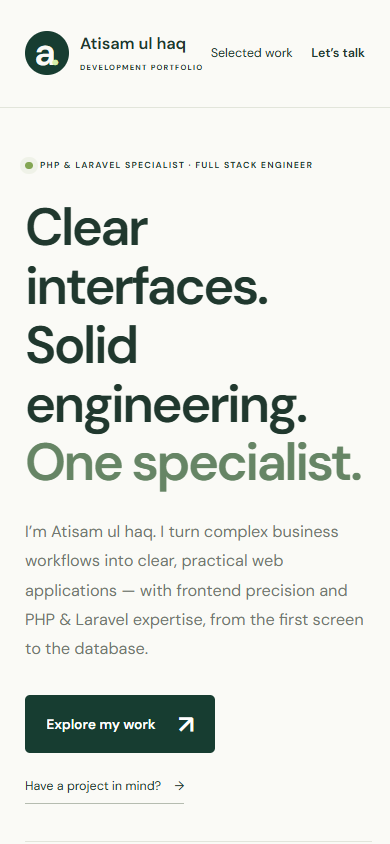
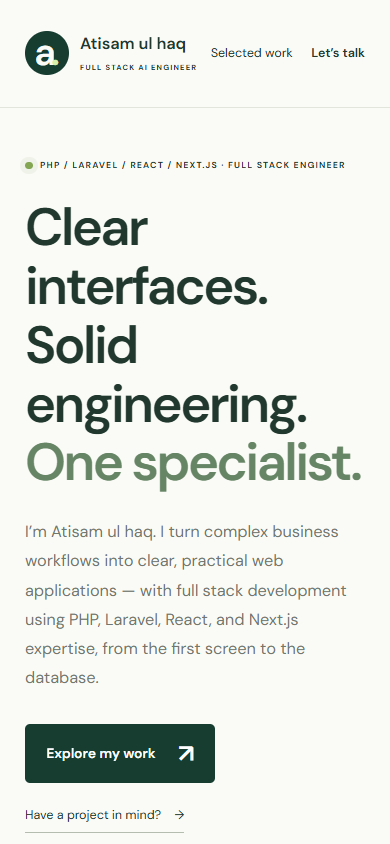
fix

diff --git a/index.html b/index.html
@@ -4,7 +4,7 @@
   <meta charset="utf-8">
   <meta name="viewport" content="width=device-width, initial-scale=1">
   <meta name="theme-color" content="#173d31">
-  <meta name="description" content="Explore Atisam ul haq’s PHP, Laravel, React, Next.js, and full stack development portfolio: twelve applications with detailed case studies and real desktop and mobile screenshots.">
+  <meta name="description" content="Explore Atisam ul haq’s PHP, Laravel, React, Next.js, and full stack development portfolio: thirteen applications with detailed case studies and real desktop and mobile screenshots.">
   <title>Atisam ul haq — Development Portfolio</title>
   <link rel="icon" href="assets/favicon.svg" type="image/svg+xml">
   <link rel="stylesheet" href="assets/style.css">
@@ -16,7 +16,7 @@
   <a class="skip-link" href="#work">Skip to projects</a>
   <header class="site-header">
     <a class="identity" href="#home" aria-label="Atisam ul haq, back to top"><span class="monogram">a<span>.</span></span><span>Atisam ul haq<small>FULL STACK AI ENGINEER</small></span></a>
-    <nav aria-label="Main navigation"><a href="#work">Selected work <span>12</span></a><a href="#expertise">Expertise</a><a class="nav-contact" href="#contact">Let’s talk <span aria-hidden="true">↗</span></a></nav>
+    <nav aria-label="Main navigation"><a href="#work">Selected work <span>13</span></a><a href="#expertise">Expertise</a><a class="nav-contact" href="#contact">Let’s talk <span aria-hidden="true">↗</span></a></nav>
   </header>
   <main>
     <section class="hero" id="home">
@@ -24,7 +24,7 @@
         <h1><span class="hero-line">Clear interfaces.</span><span class="hero-line">Solid engineering.</span><span class="hero-line"><em>One specialist.</em></span></h1>
         <p class="hero-intro">I’m Atisam ul haq. I turn complex business workflows into clear, practical web applications — with full stack development using PHP, Laravel, React, and Next.js expertise, from the first screen to the database.</p>
         <div class="hero-actions"><a class="button button-dark" href="#work">Explore my work <span aria-hidden="true">↗</span></a><a class="text-button" href="#contact">Have a project in mind? <span aria-hidden="true">→</span></a></div>
-        <div class="hero-proof"><div><strong>12</strong><span>Applications<br>to explore</span></div><div><strong>60</strong><span>Desktop & mobile<br>screenshots</span></div><div class="proof-note">From storefronts<br>to business workspaces.</div></div>
+        <div class="hero-proof"><div><strong>13</strong><span>Applications<br>to explore</span></div><div><strong>65</strong><span>Desktop & mobile<br>screenshots</span></div><div class="proof-note">From storefronts<br>to business workspaces.</div></div>
       </div>
       <div class="hero-visual" aria-label="A preview of the TalentFlow recruitment application"><div class="visual-grid"></div><div class="visual-note"><span class="note-spark">✳</span> BUILT TO LOOK GOOD.<br><b>ENGINEERED TO WORK.</b></div>
         <button class="hero-browser" type="button" data-project="talentflow" aria-label="Open TalentFlow case study"><span class="browser-top"><span class="browser-dots"><i></i><i></i><i></i></span><span>talentflow / recruitment workspace</span><span>↗</span></span><img src="assets/thumbnails/talentflow/01-dashboard-desktop.webp" alt="TalentFlow recruitment CRM dashboard, captured from the running application" width="1440" height="1000" fetchpriority="high"></button>
@@ -35,10 +35,10 @@
     <div class="technology-strip" aria-label="Core technologies"><span>THE TOOLS BEHIND THE WORK</span><strong>PHP</strong><strong>Laravel</strong><strong>React</strong><strong>Next.js</strong><strong>MySQL</strong><strong>JavaScript</strong><strong>WordPress</strong><strong>WooCommerce</strong></div>
     <section class="specialist-note section-wrap" aria-labelledby="specialist-title"><div><p class="eyebrow">SPECIALIST THINKING / FULL STACK DELIVERY</p><h2 id="specialist-title">The difference is<br><em>below the surface.</em></h2></div><div><p>A polished interface is the beginning. The real work is connecting the rules behind it: who can access a record, how a booking avoids a conflict, and what happens to stock when an order changes.</p><span class="evidence-label">EXPLORE THE THINKING IN THE WORK</span><div class="evidence-links"><button data-project="talentflow">Recruitment workflows <span aria-hidden="true">↗</span></button><button data-project="medica">Clinical access controls <span aria-hidden="true">↗</span></button><button data-project="wholesale">Wholesale order logic <span aria-hidden="true">↗</span></button></div></div></section>
     <section class="work-section section-wrap" id="work">
-      <div class="section-heading"><div><p class="eyebrow">01 / SELECTED WORK</p><h2>Different businesses.<br><em>Purpose-built solutions.</em></h2></div><p>Twelve projects. Twelve sets of real workflows.<br>Explore the design, the functionality,<br>and the thinking behind each build.</p></div>
-      <div class="work-toolbar"><div class="filters" role="group" aria-label="Filter projects"><button class="filter active" aria-pressed="true" data-filter="All">All projects <span>12</span></button><button class="filter" aria-pressed="false" data-filter="Ecommerce">Ecommerce</button><button class="filter" aria-pressed="false" data-filter="Business platforms">Business platforms</button><button class="filter" aria-pressed="false" data-filter="Marketplaces">Marketplaces</button></div><span class="results-count" id="results-count" aria-live="polite">Showing 12 projects</span></div>
+      <div class="section-heading"><div><p class="eyebrow">01 / SELECTED WORK</p><h2>Different businesses.<br><em>Purpose-built solutions.</em></h2></div><p>Thirteen projects. Thirteen sets of real workflows.<br>Explore the design, the functionality,<br>and the thinking behind each build.</p></div>
+      <div class="work-toolbar"><div class="filters" role="group" aria-label="Filter projects"><button class="filter active" aria-pressed="true" data-filter="All">All projects <span>13</span></button><button class="filter" aria-pressed="false" data-filter="Ecommerce">Ecommerce</button><button class="filter" aria-pressed="false" data-filter="Business platforms">Business platforms</button><button class="filter" aria-pressed="false" data-filter="Marketplaces">Marketplaces</button></div><span class="results-count" id="results-count" aria-live="polite">Showing 13 projects</span></div>
       <div class="projects-grid" id="projects-grid"></div>
-      <noscript><p>Enable JavaScript to explore the interactive case studies. All 60 original screenshots are available in assets/screenshots/.</p></noscript>
+      <noscript><p>Enable JavaScript to explore the interactive case studies. All 65 original screenshots are available in assets/screenshots/.</p></noscript>
       <p class="work-note"><span aria-hidden="true">ⓘ</span> These are real local application captures. Client names and project dates are fictional presentation examples; application data is demonstration content.</p>
     </section>
     <section class="expertise-section" id="expertise"><div class="section-wrap">

diff --git a/assets/projects.js b/assets/projects.js
@@ -1,5 +1,49 @@
 window.portfolioProjects = [
 {
+  "id": "quotient-procurement",
+  "mockup": "Mockups/quotient-procurement-portfolio-mockup-1000x750.png",
+  "title": "Quotient Procurement",
+  "subtitle": "AI supplier quote comparison & approvals",
+  "category": "Business platforms",
+  "type": "AI SAAS / PROCUREMENT",
+  "client": "Quotient Procurement (demo project)",
+  "date": "October 2026",
+  "color": "#e5f0e8",
+  "cover": "02-comparison-desktop.png",
+  "mobileCover": "05-comparison-mobile.png",
+  "summary": "A multi-tenant purchasing workspace for comparing supplier quotes, shortlisting vendors, generating bounded AI reviews, and controlling approval decisions.",
+  "description": "Quotient Procurement brings purchase requests, structured supplier quotations, landed-cost comparison, decision support, approvals, and audit history into one responsive workspace. Teams can compare price, tax, shipping, lead time, and payment terms while owners retain control of final approval decisions.",
+  "challenge": "Purchasing teams often compare inconsistent quotations in spreadsheets, making delivery trade-offs, approval history, and tenant access difficult to control. AI assistance also needs strict data and quota boundaries so it supports rather than replaces accountable decisions.",
+  "solution": "Built a Next.js and TypeScript SaaS backed by Supabase authentication, PostgreSQL row-level security, organization-scoped RPCs, and optimistic version checks. Structured quote data drives normalized totals and OpenAI-assisted reviews. An owner-controlled workflow records decisions and audit events, while Stripe Starter and Pro subscriptions enforce member, request, and daily AI limits in the database.",
+  "features": [
+    "Multi-tenant organizations with owner/member roles and email-bound invitations",
+    "Structured supplier quotations with items, tax, shipping, currency, lead time, and terms",
+    "Side-by-side landed-cost comparison, charts, and supplier shortlisting",
+    "Bounded OpenAI review over saved quote data with plan-based daily quotas",
+    "Draft, review, approved, rejected, and archived workflow with audit history",
+    "Stripe Starter and Pro subscriptions with Checkout, portal, webhooks, and reconciliation",
+    "CSV import/export, JSON backup, decision briefs, and responsive desktop/mobile UI"
+  ],
+  "stack": [
+    "Next.js",
+    "TypeScript",
+    "React",
+    "Supabase",
+    "PostgreSQL",
+    "OpenAI",
+    "Stripe",
+    "Playwright"
+  ],
+  "scope": "Independent portfolio demo using fictional procurement data. AI reviews analyze structured quote data supplied by the application; this is not RAG and does not autonomously approve purchases. Stripe was exercised in test mode, and the captures do not establish production payment operation, ERP integration, OCR, supplier messaging, or purchase-order fulfillment.",
+  "screens": [
+    ["01-home-desktop.png", "Quotient Procurement homepage", "desktop"],
+    ["02-comparison-desktop.png", "Supplier quote comparison workspace", "desktop"],
+    ["03-settings-desktop.png", "Workspace and subscription settings", "desktop"],
+    ["04-home-mobile.png", "Mobile Quotient homepage", "mobile"],
+    ["05-comparison-mobile.png", "Mobile supplier quote comparison", "mobile"]
+  ]
+},
+  {
   "id": "orbit-sales",
   "title": "Orbit Sales",
   "subtitle": "AI sales CRM with document-based RAG",

diff --git a/assets/app.js b/assets/app.js
@@ -23,6 +23,7 @@
     </article>`).join('');
 
   const engineeringHighlights = {
+    'quotient-procurement': 'Tenant-safe quote comparison, approvals & bounded AI review',
     'orbit-sales': 'Document-based RAG, hybrid retrieval & cited AI answers',
     clientnest: 'Tenant-scoped access, private files & verified subscription limits',
     'grounded-men': 'Capacity-protected bookings & teacher-scoped attendance',
